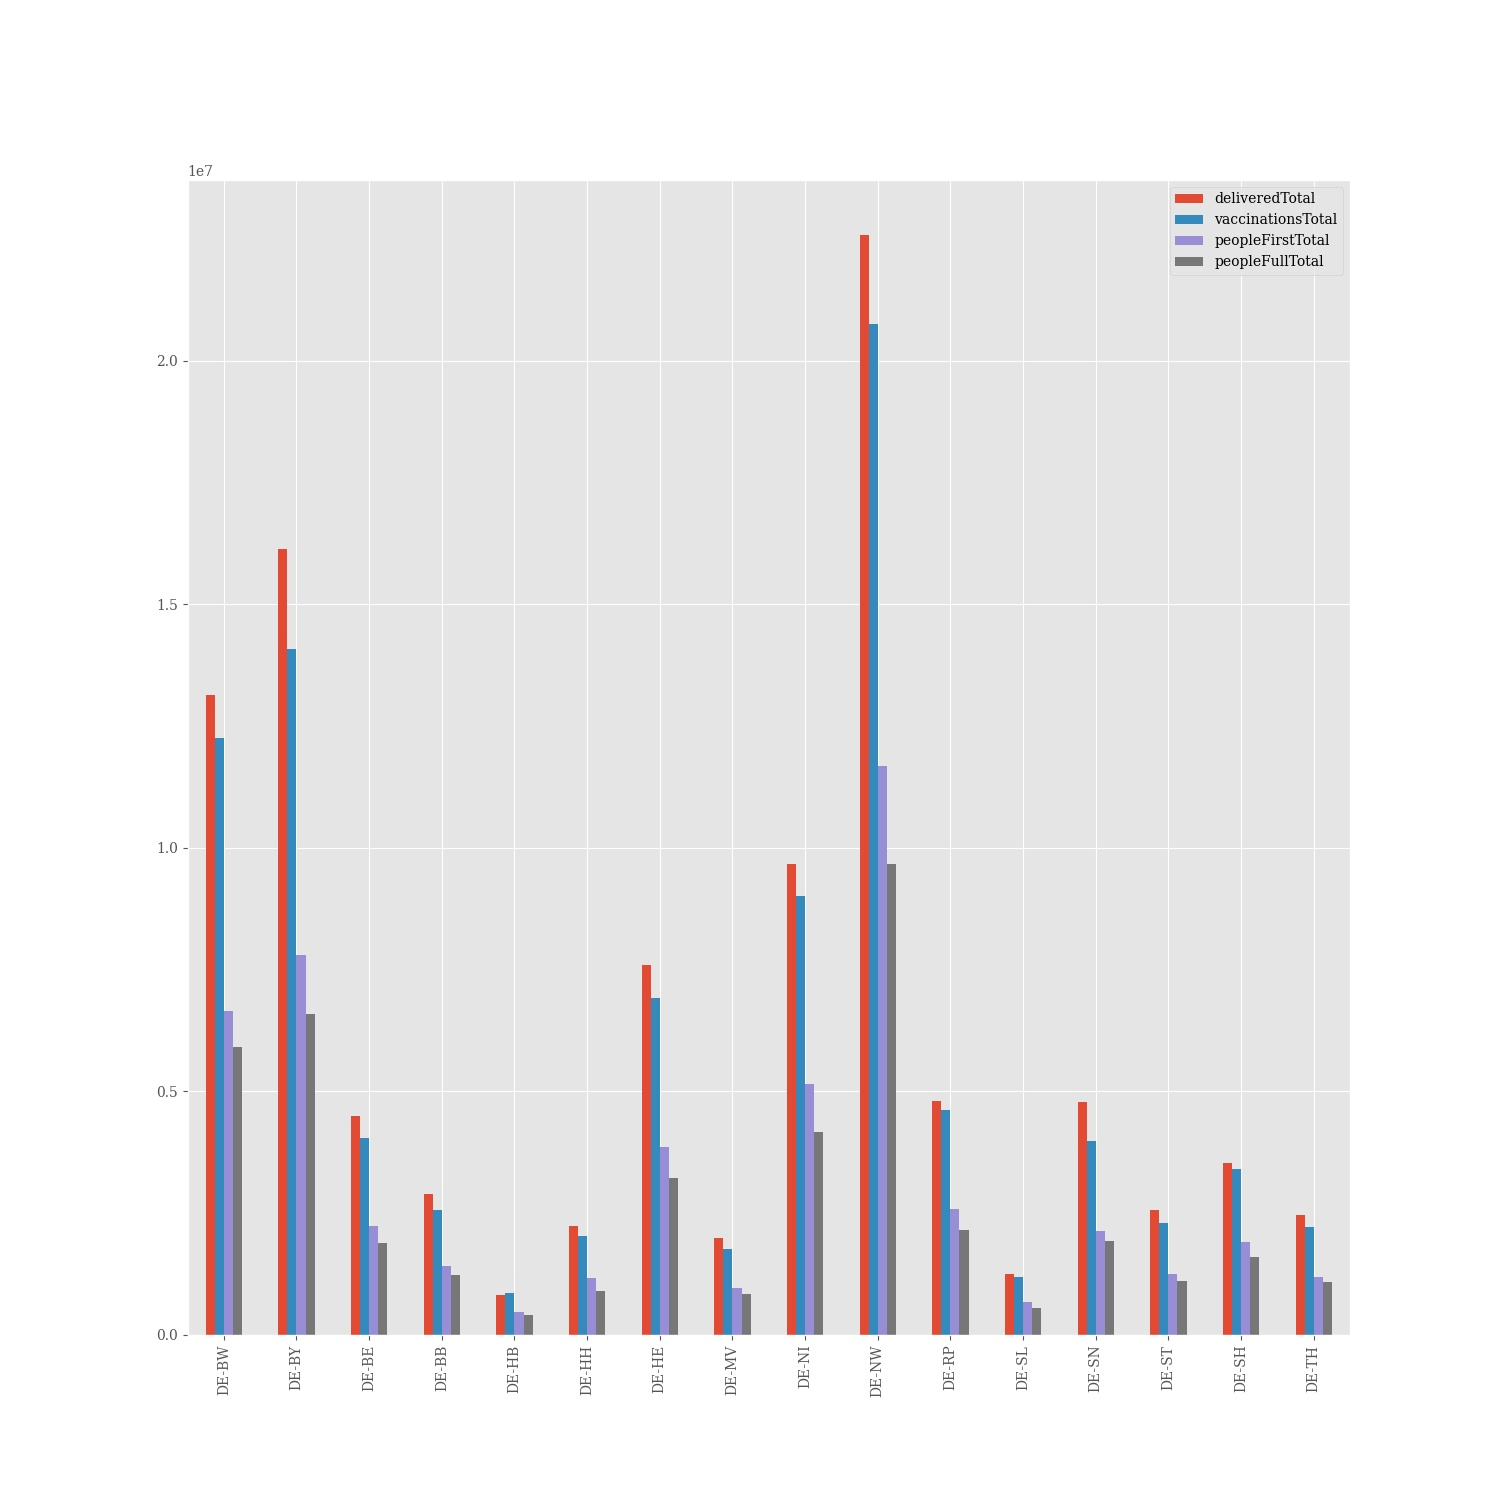
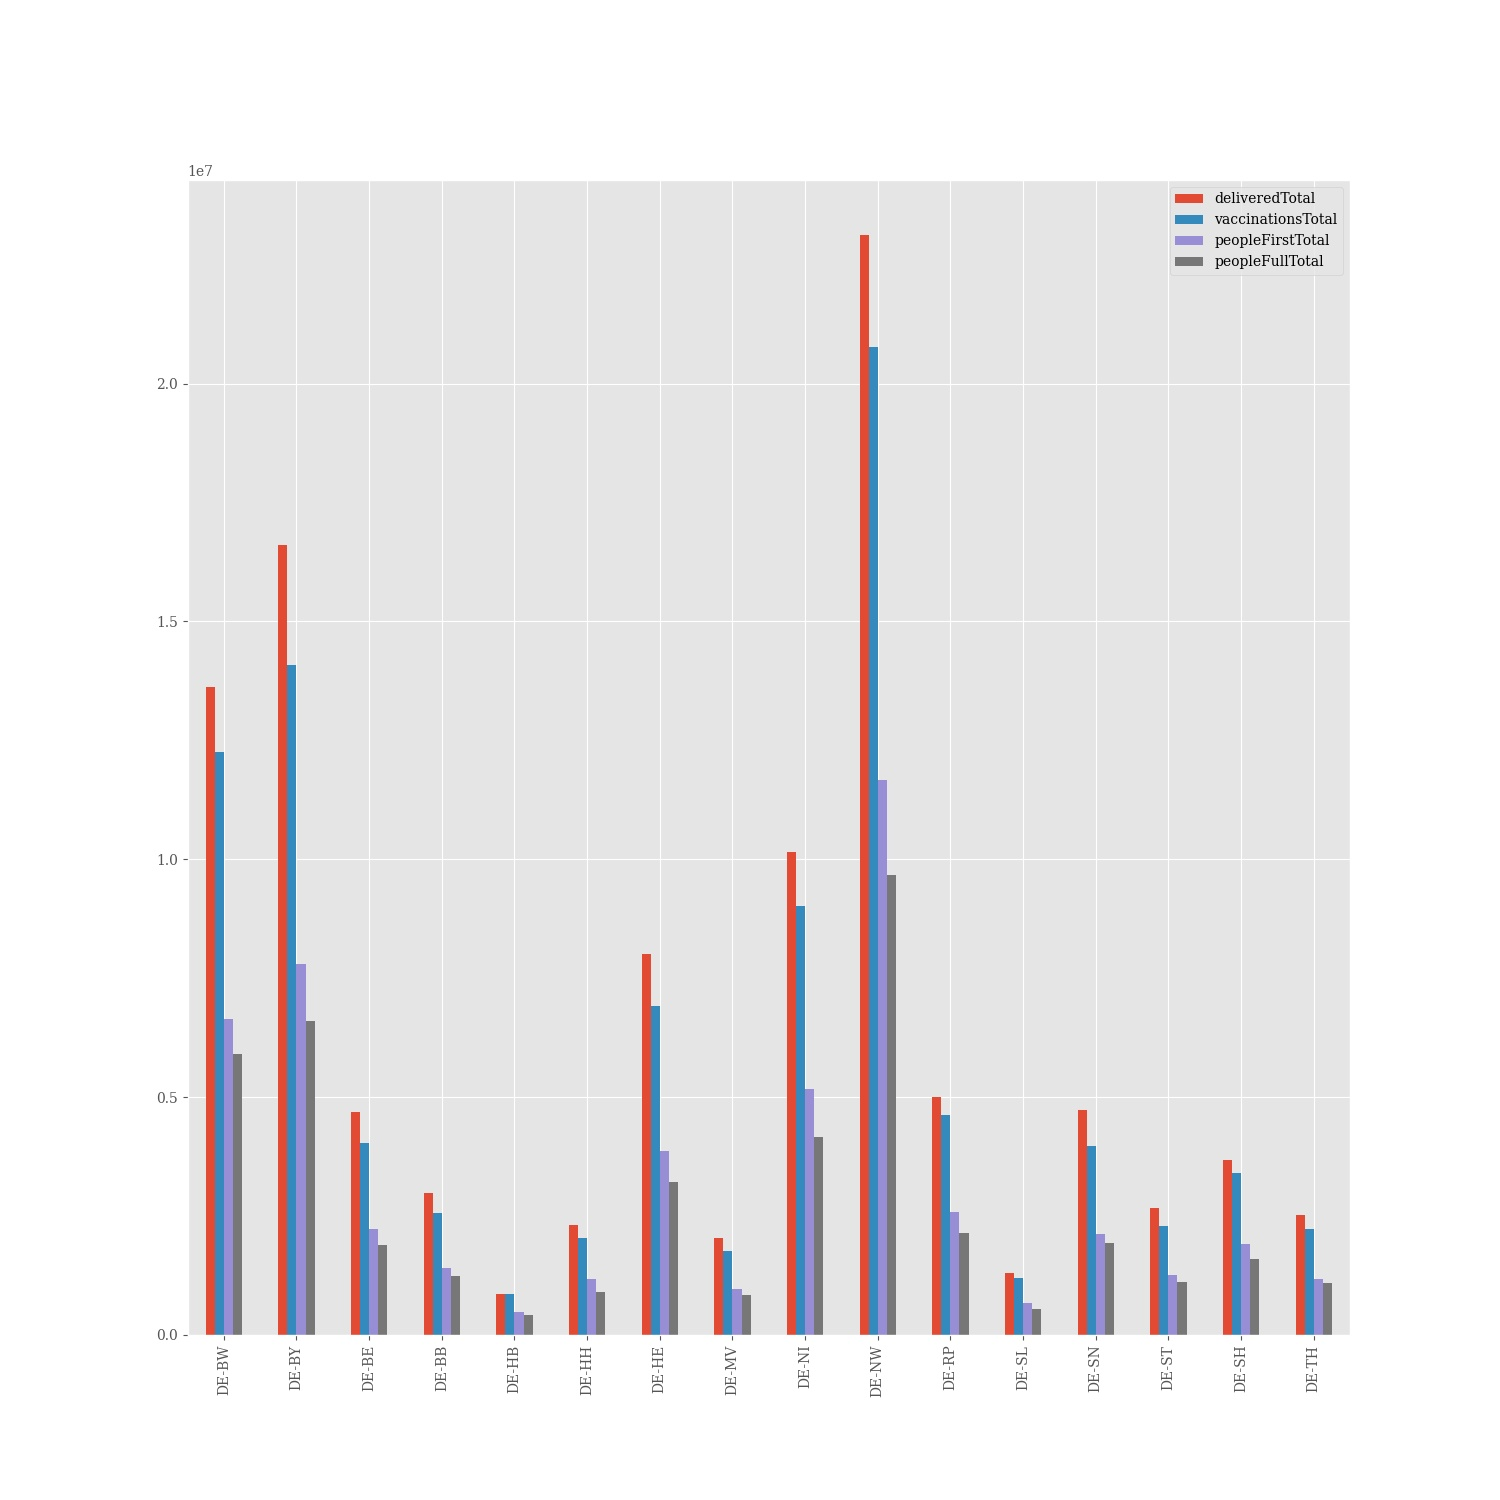
Crontab commit

Changed region(s): [[0.5213, 0.552, 0.552, 0.5827]]

diff --git a/Readme.md b/Readme.md
@@ -17,22 +17,22 @@ Astrazeneca | 12491937
 ## Bundesländer
 **Bundesland** | **Prozent von gelieferten Imfdosen verimpft**
 -------- | :--------:
-DE-BW | 93.23 %
-DE-BY | 87.24 %
-DE-BE | 89.89 %
-DE-BB | 88.52 %
-DE-HB | 106.14 %
-DE-HH | 91.18 %
-DE-HE | 91.10 %
-DE-MV | 88.50 %
-DE-NI | 93.30 %
-DE-NW | 91.92 %
-DE-RP | 96.02 %
-DE-SL | 94.69 %
-DE-SN | 83.25 %
-DE-ST | 89.25 %
-DE-SH | 96.89 %
-DE-TH | 90.37 %
+DE-BW | 90.00 %
+DE-BY | 84.85 %
+DE-BE | 85.96 %
+DE-BB | 86.20 %
+DE-HB | 101.44 %
+DE-HH | 87.77 %
+DE-HE | 86.38 %
+DE-MV | 86.31 %
+DE-NI | 88.78 %
+DE-NW | 89.78 %
+DE-RP | 92.54 %
+DE-SL | 91.16 %
+DE-SN | 84.29 %
+DE-ST | 85.86 %
+DE-SH | 93.03 %
+DE-TH | 88.03 %
 ## Graphen
 <img src="Impfungen-Corona-01.jpg" alt="Impf Übersicht" title="Impf Übersicht" />
 <img src="Impfungen-Corona-02.jpg" alt="Impfquote" title="Impf Übersicht" />
